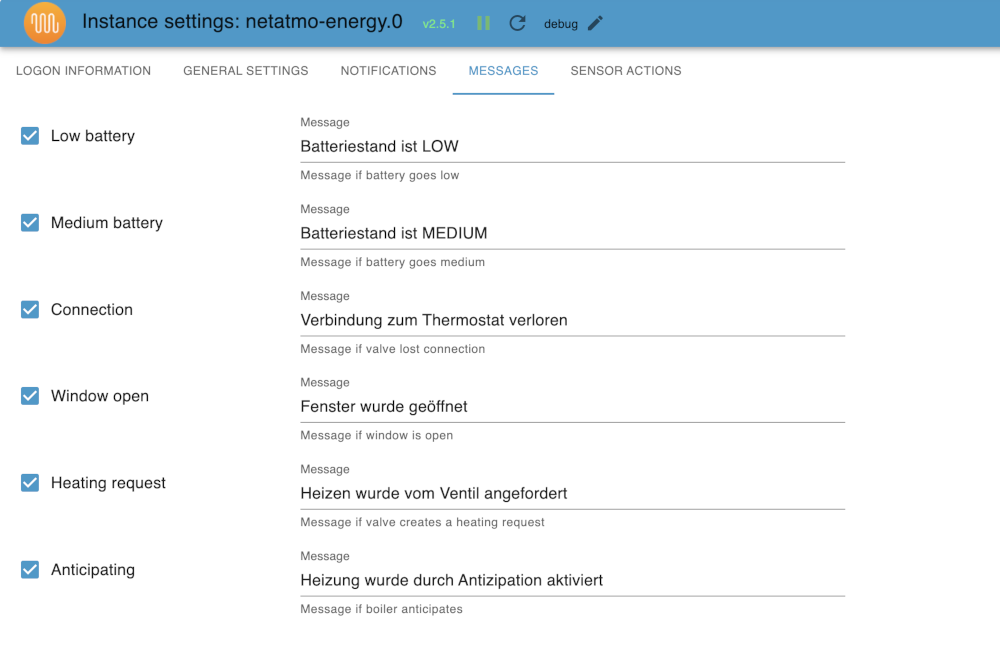
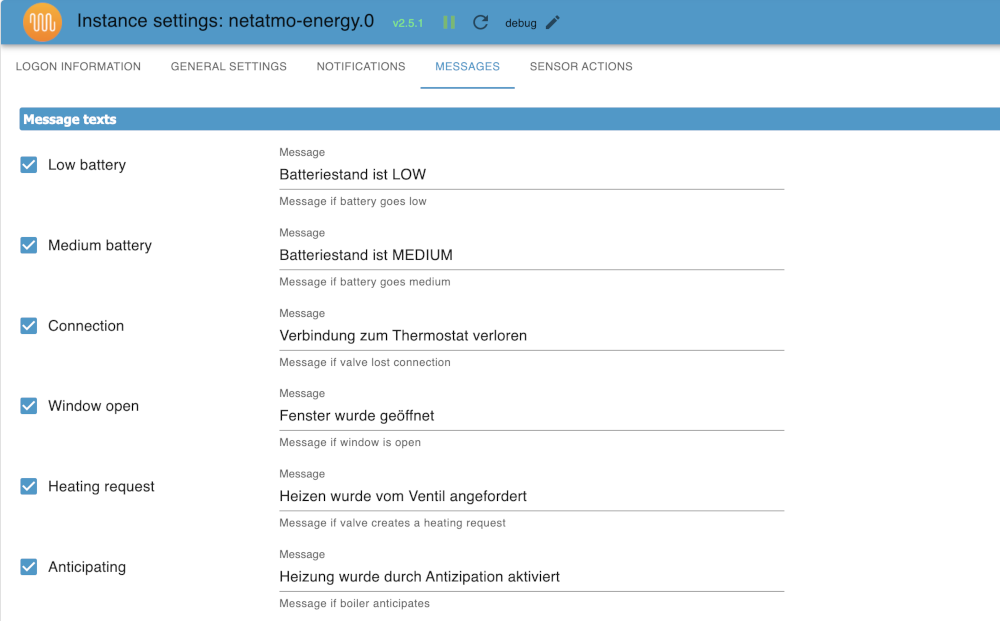
Adjustments in the admin config

diff --git a/admin/words.js b/admin/words.js
@@ -141,7 +141,7 @@ const _systemDictionary = {
 	"Silent Notice": {                               "en": "Silent notice",                                   "de": "Stille Benachrichtigung",                         "ru": "Безмолвное уведомление",                          "pt": "Aviso silencioso",                                "nl": "Stille opmerking",                                "fr": "Notice silencieuse",                              "it": "Avviso silenzioso",                               "es": "Aviso silencioso",                                "pl": "Cicha informacja",                                "uk": "Повідомлення, якщо клапан втратив з’єднання7",    "zh-cn": "无声通知"},
 	"Somebody stopped": {                            "en": "Somebody stopped",                                "de": "Jemand hat den folgenden Adapter gestoppt",                             "ru": "Кто-то остановился",                              "pt": "Alguem parou",                                    "nl": "Iemand stopte",                                   "fr": "Quelqu'un s'est arrêté",                          "it": "Qualcuno si è fermato",                           "es": "Alguien se detuvo",                               "pl": "Ktoś się zatrzymał",                              "uk": "Хтось зупинився",                                 "zh-cn": "有人停了下来"},
 	"Start API-request:": {                          "en": "Start API-request:",                              "de": "API-Anfrage starten:",                            "ru": "Запустить API-запрос:",                           "pt": "Iniciar solicitação de API:",                     "nl": "Start API-aanvraag:",                             "fr": "Démarrez la requête API:",                        "it": "Avvia richiesta API:",                            "es": "Iniciar solicitud de API:",                       "pl": "Uruchom żądanie API:",                            "uk": "Почати API-запит:",                               "zh-cn": "启动API请求："},
-	"Start Token-Refresh:": {                        "en": "Start Token-Refresh:",                            "de": "Token-Refresh starten:",                          "ru": "Запустите токен-обновление:",                     "pt": "Iniciar atualização de token:",                   "nl": "Token vernieuwen starten:",                       "fr": "Démarrer l'actualisation du jeton :",             "it": "Avvia aggiornamento token:",                      "es": "Iniciar actualización de token:",                 "pl": "Rozpocznij odświeżanie tokena:",                  "uk": "Почати оновлення маркерів:",                      "zh-cn": "开始令牌刷新："},
+	"Start Token-Refresh": {                         "en": "Start Token-Refresh",                             "de": "Token-Refresh starten",                           "ru": "Запустите токен-обновление",                      "pt": "Iniciar atualização de token",                    "nl": "Token vernieuwen starten",                        "fr": "Démarrer l'actualisation du jeton",               "it": "Avvia aggiornamento token",                       "es": "Iniciar actualización de token",                  "pl": "Rozpocznij odświeżanie tokena",                   "uk": "Почати оновлення маркерів",                       "zh-cn": "开始令牌刷新"},
 	"Start Token-request:": {                        "en": "Start Token-request:",                            "de": "Token-Anfrage starten:",                          "ru": "Начать токен-запрос:",                            "pt": "Iniciar solicitação de token:",                   "nl": "Start token-aanvraag:",                           "fr": "Démarrez la demande de jeton:",                   "it": "Avvia richiesta di token:",                       "es": "Iniciar solicitud de token:",                     "pl": "Rozpocznij żądanie tokena:",                      "uk": "Почати запит на маркер:",                         "zh-cn": "启动令牌请求："},
 	"Start refresh request": {                       "en": "Start refresh request",                           "de": "Aktualisierungsanforderung starten",              "ru": "Начать запрос на обновление",                     "pt": "Iniciar solicitação de atualização",              "nl": "Vernieuwingsverzoek starten",                     "fr": "Démarrer la demande d'actualisation",             "it": "Avvia richiesta di aggiornamento",                "es": "Iniciar solicitud de actualización",              "pl": "Rozpocznij żądanie odświeżenia",                  "uk": "Почати запит на оновлення",                       "zh-cn": "开始刷新请求"},
 	"Status": {                                      "en": "Status",                                          "de": "Status",                                          "ru": "Положение дел",                                   "pt": "Status",                                          "nl": "Toestand",                                        "fr": "Statut",                                          "it": "Stato",                                           "es": "Estado",                                          "pl": "Status",                                          "uk": "Статус",                                          "zh-cn": "状态"},
@@ -254,6 +254,9 @@ const _systemDictionary = {
 	"Temperature control": { 														"en": "Temperature control", 														"de": "Temperaturregelung", 																	"ru": "Контроль температуры", 																"pt": "Controle de temperatura", 																"nl": "Temperatuur controle", 															"fr": "Contrôle de la température", 																			"it": "Controllo temperatura", 																			"es": "Control de temperatura", 																	"pl": "Kontrola przejściowa", 																				"uk": "Контроль температури", 														"zh-cn": "示范控制" },
 	"Update data structure": { 														"en": "Update data structure", 														"de": "Datenstruktur aktualisieren", 															"ru": "Обновить структуру данных", 															"pt": "Estrutura de dados de atualização", 														"nl": "Update data structuur", 															"fr": "Mettre à jour la structure des données", 																"it": "Struttura dei dati di aggiornamento", 															"es": "Actualizar la estructura de datos", 															"pl": "Struktura danych", 																					"uk": "Структура даних", 															"zh-cn": "最新数据结构" },
 	"Message services": { 															"en": "Message services", 															"de": "Nachrichtendienste", 																	"ru": "Сообщения услуги", 																	"pt": "Serviços de mensagens", 																	"nl": "Berichtdienst", 																	"fr": "Services de messagerie", 																				"it": "Servizi di messaggi", 																			"es": "Servicios de mensajería", 																	"pl": "Usługi Message", 																					"uk": "Послуги", 																	"zh-cn": "邮件事务" },
+	"Message texts": { 																"en": "Message texts", 																"de": "Mitteilungstexte", 																		"ru": "Тексты сообщений", 																	"pt": "Textos de mensagens", 																	"nl": "Bericht sms'en", 																"fr": "Textes de message", 																						"it": "Messaggi di messaggio", 																			"es": "Textos del mensaje", 																		"pl": "Teksty Message", 																					"uk": "Текст повідомлення", 														"zh-cn": "文 件" },
+	"Reactions to sensor status changes": { 										"en": "Reactions to sensor status changes", 										"de": "Reaktionen auf Sensorstatusänderungen", 													"ru": "Реакция на изменение статуса датчика", 												"pt": "Reações às alterações de status do sensor", 												"nl": "Reacties naar sensoren veranderen", 												"fr": "Réactions aux changements de statut de capteur", 														"it": "Reazioni ai cambiamenti di stato del sensore", 													"es": "Reacciones a cambios de estado de sensores", 												"pl": "Reakcje statusu czujnego zmieniają się", 															"uk": "Реакції до зміни стану датчика", 											"zh-cn": "对感情状况的反应" },
+	"Token saved": { 																"en": "Token saved", 																"de": "Token gespeichert", 																		"ru": "Токен сохранен", 																	"pt": "Token salvo", 																			"nl": "Token", 																			"fr": "Token sauvé", 																							"it": "Token salvato", 																					"es": "Token salvado", 																				"pl": "Uratować", 																							"uk": "Збережений токен", 															"zh-cn": "幸免" },
 };
 // @ts-ignore
 if (typeof module !== 'undefined' && module.parent) {

diff --git a/main.js b/main.js
@@ -164,7 +164,7 @@ class NetatmoEnergy extends utils.Adapter {
 		};
 		try {
 			fs.writeFileSync(`${this.dataDir}/tokens.json`, JSON.stringify(tokenData), 'utf8');
-			this.log.debug(`Token saved: ${this.dataDir}/tokens.json`);
+			this.log.debug(mytools.tl('Token saved', this.systemLang) + `: ${this.dataDir}/tokens.json`);
 		} catch (err) {
 			this.log.error(mytools.tl('Cannot write token file: ', this.systemLang) + err);
 		}
@@ -186,7 +186,7 @@ class NetatmoEnergy extends utils.Adapter {
 	//Authenticate refresh token
 	async _authenticate_refresh_token(redirect_uri, code) {
 		this._setTokenIntervall(false);
-		this.log.info(mytools.tl('Start Token-Refresh:', this.systemLang));
+		this.log.info(mytools.tl('Start Token-Refresh', this.systemLang));
 		await this._getToken(this.config.HomeId, this.config.ClientId, this.config.ClientSecretID, redirect_uri, code)
 			.then(async (tokenvalues) => {
 				this.globalNetatmo_AccessToken = tokenvalues.access_token;
@@ -1898,7 +1898,8 @@ class NetatmoEnergy extends utils.Adapter {
 					if (states && !error) {
 						for (const id in states) {
 							if (id.search(searchBoolSensors) >= 0) {
-								BoolArray.push({ label: id, value: id });
+								const SensorLabel = await that.getStateAsync(id.substring(0, id.substring(0, id.lastIndexOf('settings')).length - 1) + '.name');
+								(SensorLabel) ? (BoolArray.push({ label: SensorLabel.val + ' (' + id + ')', value: id })) : (BoolArray.push({ label: id, value: id }));
 							}
 						}
 						resolve(BoolArray);

diff --git a/README.md b/README.md
@@ -37,6 +37,10 @@ Mittels der Netatmo-Energy API werden die aktuellen Einstellungen abgeholt bzw. 
     Placeholder for the next version (at the beginning of the line):
     ### **WORK IN PROGRESS**
 -->
+### 2.5.2 (2023-04-09)
+
+* (ioKlausi) Made some adjustments in the admin config
+
 ### 2.5.1 (2023-04-09)
 
 * (ioKlausi) Test message in config added
